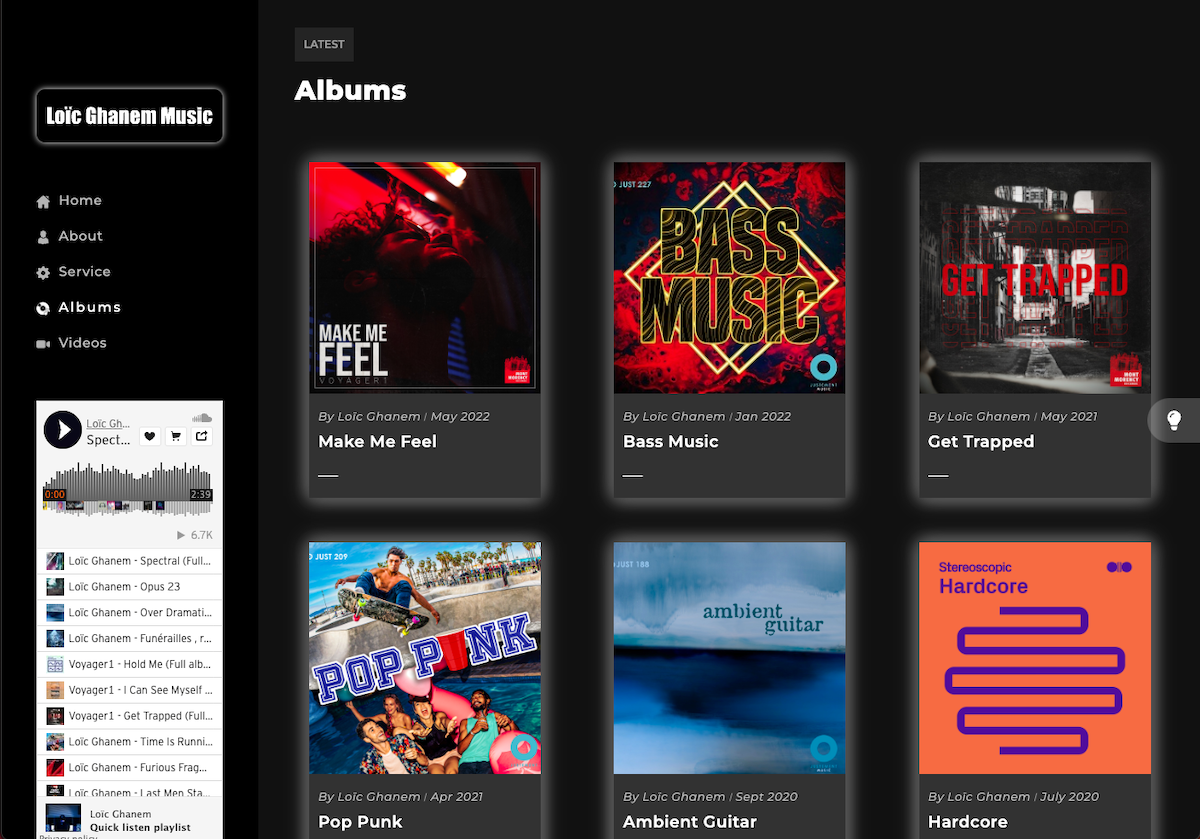
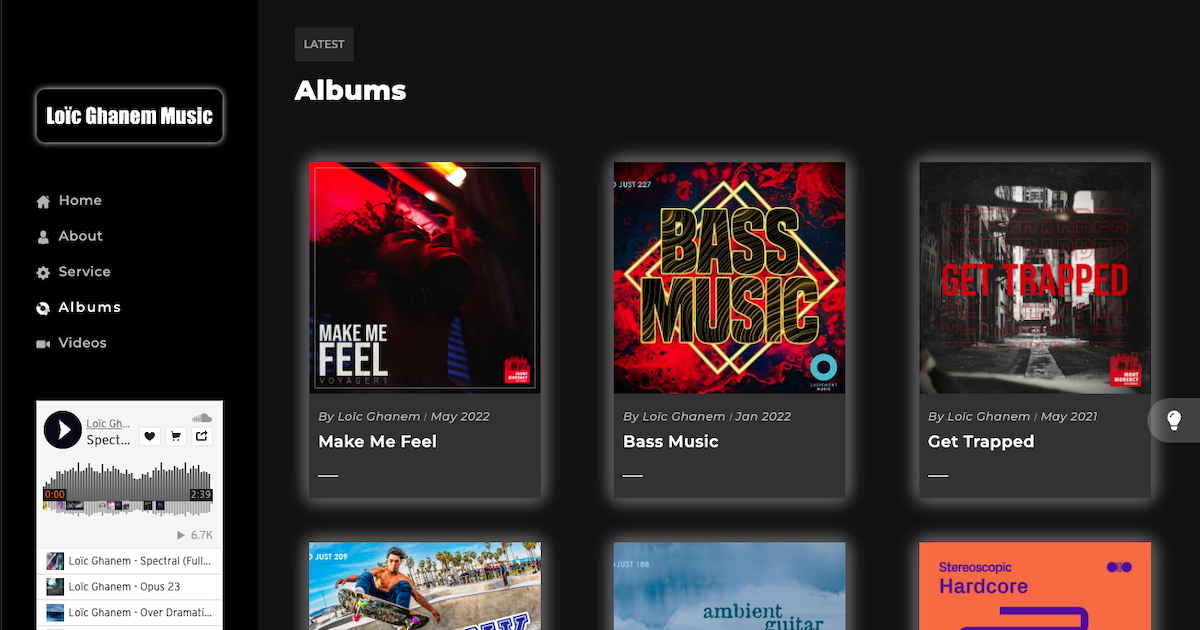
resize og image

diff --git a/pages/_document.js b/pages/_document.js
@@ -13,6 +13,8 @@ export default function Document() {
           rel="stylesheet"
         />
         <meta property="og:image" content="/img/og-loic.png" />
+        <meta property="og:title" content="Loïc Ghanem Music - Composer & Producer" />
+        <meta property="og:description" content="Découvrez la musique de Loïc Ghanem, compositeur et producteur." />
         <meta name="description" content="Loïc Ghanem Music - Composer & Producer" />
         <meta httpEquiv="x-ua-compatible" content="ie=edge" />
         <meta name="robots" content="noindex, follow" />
